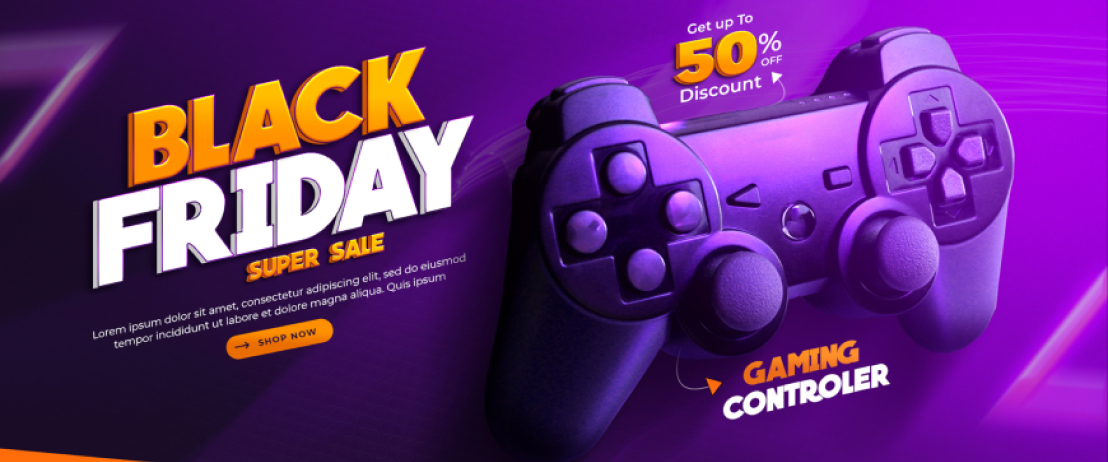
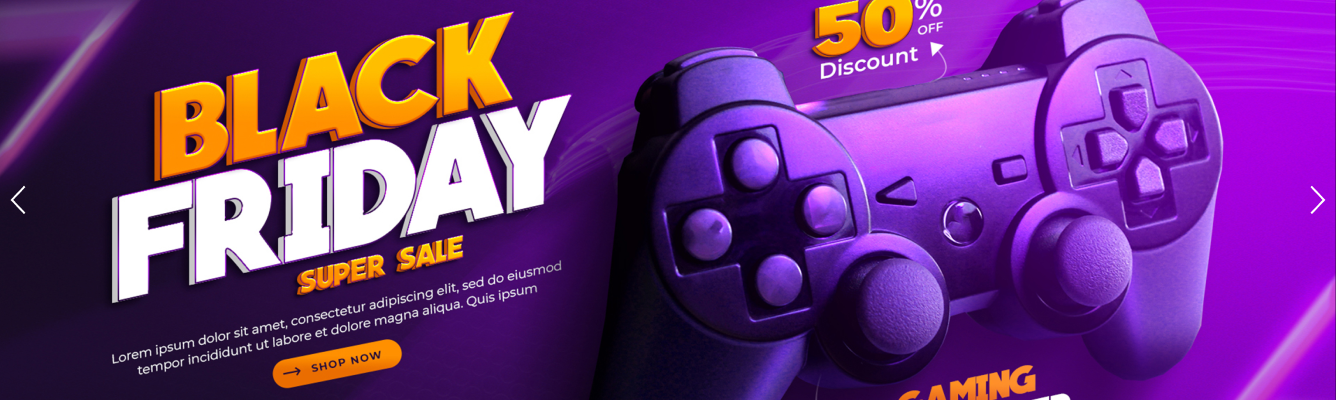
delete block-brands

diff --git a/templates/layouts/index.html b/templates/layouts/index.html
@@ -75,7 +75,7 @@
         <!-- start content -->
         <div class="d-flex mt-4 row">
             <!-- start brands -->
-            <div class="brands d-flex flex-column justify-content-between col-3">
+            <!-- <div class="brands d-flex flex-column justify-content-between col-3">
                 <a href="" class="brand col-10">
                     <div>
                         <img src="img/steelseries.svg" alt="steelseries" class="img-fluid w-100">
@@ -101,12 +101,12 @@
                         <img src="img/hyperx.svg" alt="hyperx" class="img-fluid w-100">
                     </div>
                 </a>
-            </div>
+            </div> -->
             <!-- end brands -->
 
             <!-- start slider -->
-            <div class="slider d-flex col-9">
-                <img src="img/slider-1.jpg" alt="banner-slide1" class="img-fluid w-100">
+            <div class="slider d-flex">
+                <img src="img/Black-Friday_web_banner_16.jpg" alt="banner-slide1" class="img-fluid w-100">
                 <!-- <div class="arrows">
                     <img class="" src="img/left-arrow.svg" alt="left-arrow">
                     <img src="img/right-arrow.svg" alt="right-arrow">
@@ -118,7 +118,7 @@
             <div class="top-title mb-4 text-uppercase">
                 Кращі пропозиції
             </div>
-            <div class="top-line1 d-flex flex-row justify-content-between">
+            <div class="d-flex flex-row justify-content-between">
                 <!-- card1 -->
                 <a href="" class="d-flex item flex-column align-items-center justify-content-center">
                     <div class="item-content">

diff --git a/templates/layouts/css/styles.css b/templates/layouts/css/styles.css
@@ -103,6 +103,9 @@ button{
     font-size: 20px;
     color: #CF2EFF;
 }
+
+
+
 @media (max-width:1200px){
 .brand{
     height: 60px;
